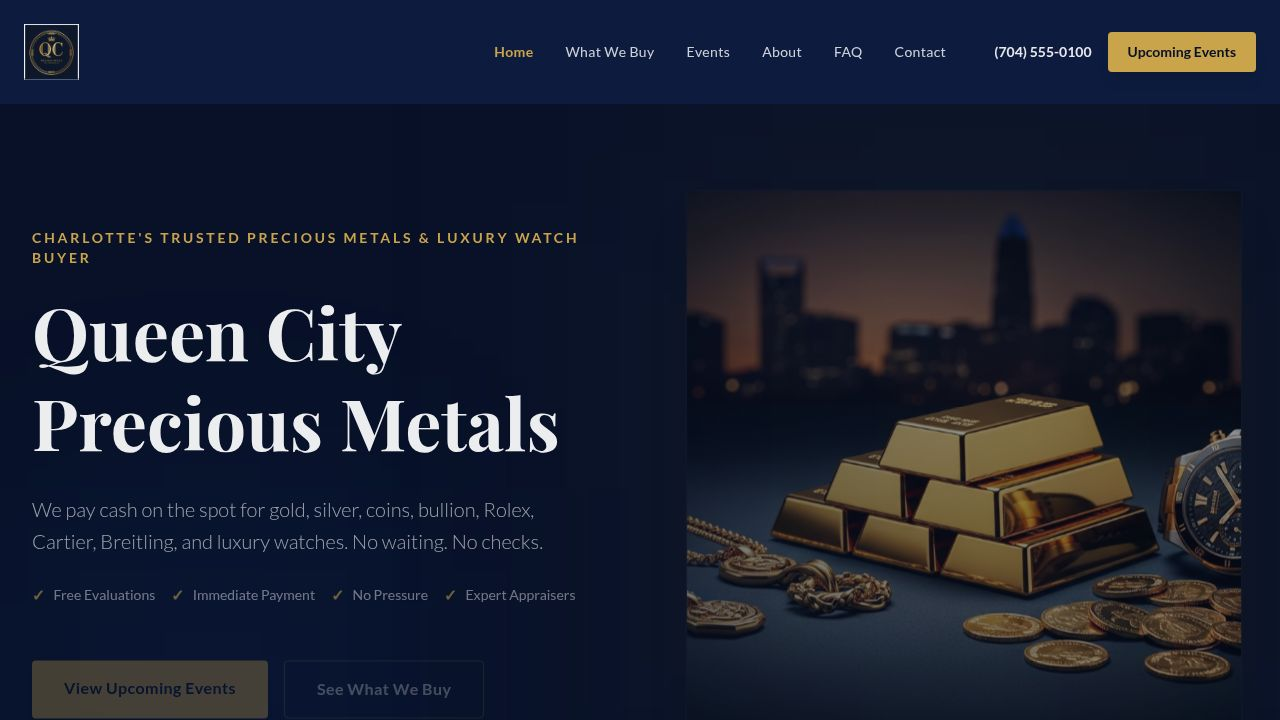
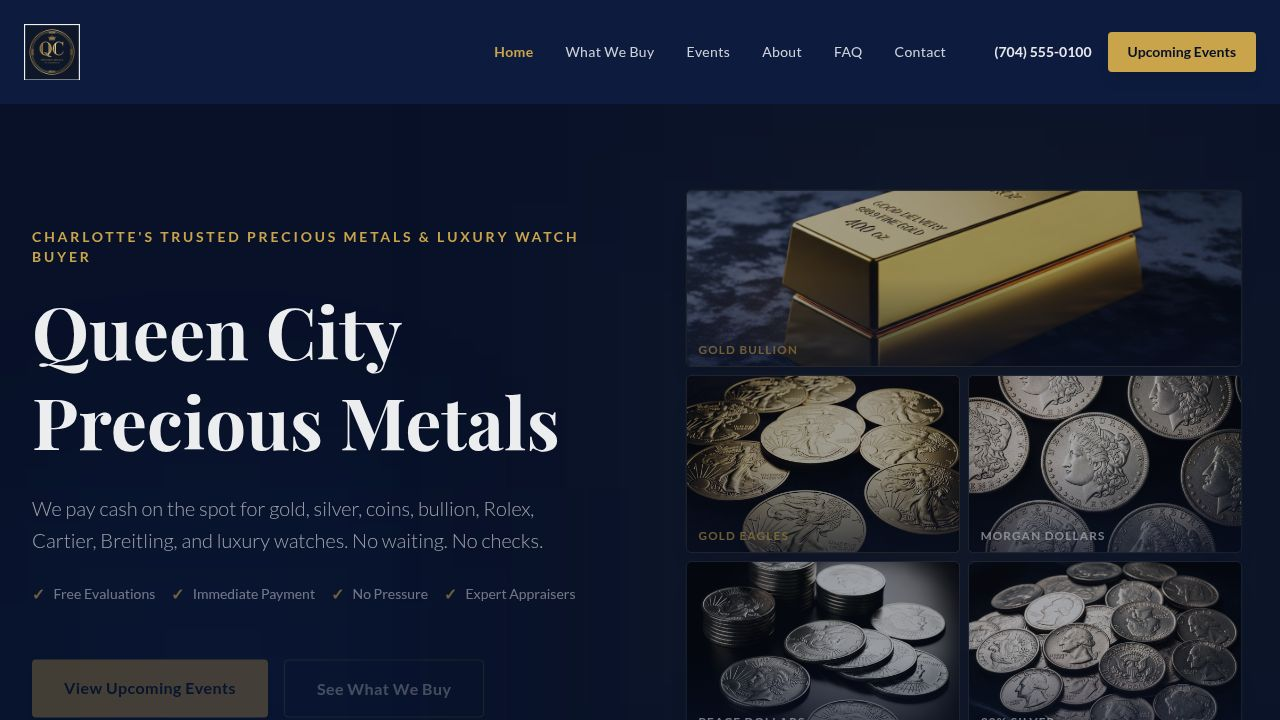
Hero image redesigned: single photo replaced with 5-image mosaic collage
Task #2 — Hero Image Collage Redesign

Changes made:
- Generated 5 new AI images saved to artifacts/qcpm-website/public/images/:
  - hero-gold-bars.png (4:3, two gleaming gold bars on dark velvet)
  - hero-american-eagles.png (1:1, American Gold Eagle coins spread on velvet)
  - hero-morgan-dollars.png (1:1, Morgan silver dollars dramatic lighting)
  - hero-peace-dollars.png (1:1, Peace dollar stacks and spread)
  - hero-junk-silver.png (1:1, 90% pre-1965 quarters/dimes/half-dollars)

- Updated HeroSection.tsx: added `rightSlot?: ReactNode` prop. When provided,
  it replaces the single imageSrc panel. The `imageSrc` path still works for
  all internal pages. `isInternal` now checks `hasRightPanel` correctly.

- Updated home.tsx: replaced `imageSrc="/images/hero.png"` with a `rightSlot`
  containing a responsive CSS grid mosaic:
  - Row 1: gold bars spanning both columns (full width)
  - Row 2: American Gold Eagles | Morgan Dollars (2 cols)
  - Row 3: Peace Dollars | 90% Junk Silver (2 cols)
  - Each cell: rounded corners, gold/white border, gradient overlay, subtle
    uppercase label (Gold Bullion, Gold Eagles, Morgan Dollars, Peace Dollars,
    90% Silver)

No deviations from the plan. Original hero.png preserved (not deleted).

diff --git a/artifacts/qcpm-website/src/pages/home.tsx b/artifacts/qcpm-website/src/pages/home.tsx
@@ -29,7 +29,60 @@ export default function HomePage() {
         primaryCta={{ label: "View Upcoming Events", href: "/events" }}
         secondaryCta={{ label: "See What We Buy", href: "/what-we-buy" }}
         badges={["Free Evaluations", "Immediate Payment", "No Pressure", "Expert Appraisers"]}
-        imageSrc="/images/hero.png"
+        rightSlot={
+          <div className="grid grid-cols-2 gap-2 h-[480px] lg:h-[560px]">
+            {/* Gold bars — spans both columns */}
+            <div className="col-span-2 relative rounded-lg overflow-hidden border border-gold/20 shadow-xl group">
+              <img
+                src="/images/hero-gold-bars.png"
+                alt="Gold bullion bars"
+                className="w-full h-full object-cover object-center transform group-hover:scale-105 transition-transform duration-1000 ease-out"
+              />
+              <div className="absolute inset-0 bg-gradient-to-t from-navy-dark/60 via-transparent to-transparent" />
+              <span className="absolute bottom-2 left-3 text-xs text-gold/80 font-semibold tracking-widest uppercase">Gold Bullion</span>
+            </div>
+            {/* American Gold Eagles */}
+            <div className="relative rounded-lg overflow-hidden border border-gold/20 shadow-xl group">
+              <img
+                src="/images/hero-american-eagles.png"
+                alt="American Gold Eagles"
+                className="w-full h-full object-cover object-center transform group-hover:scale-105 transition-transform duration-1000 ease-out"
+              />
+              <div className="absolute inset-0 bg-gradient-to-t from-navy-dark/60 via-transparent to-transparent" />
+              <span className="absolute bottom-2 left-3 text-xs text-gold/80 font-semibold tracking-widest uppercase">Gold Eagles</span>
+            </div>
+            {/* Morgan Dollars */}
+            <div className="relative rounded-lg overflow-hidden border border-white/10 shadow-xl group">
+              <img
+                src="/images/hero-morgan-dollars.png"
+                alt="Morgan Silver Dollars"
+                className="w-full h-full object-cover object-center transform group-hover:scale-105 transition-transform duration-1000 ease-out"
+              />
+              <div className="absolute inset-0 bg-gradient-to-t from-navy-dark/60 via-transparent to-transparent" />
+              <span className="absolute bottom-2 left-3 text-xs text-white/70 font-semibold tracking-widest uppercase">Morgan Dollars</span>
+            </div>
+            {/* Peace Dollars */}
+            <div className="relative rounded-lg overflow-hidden border border-white/10 shadow-xl group">
+              <img
+                src="/images/hero-peace-dollars.png"
+                alt="Peace Silver Dollars"
+                className="w-full h-full object-cover object-center transform group-hover:scale-105 transition-transform duration-1000 ease-out"
+              />
+              <div className="absolute inset-0 bg-gradient-to-t from-navy-dark/60 via-transparent to-transparent" />
+              <span className="absolute bottom-2 left-3 text-xs text-white/70 font-semibold tracking-widest uppercase">Peace Dollars</span>
+            </div>
+            {/* 90% Junk Silver */}
+            <div className="relative rounded-lg overflow-hidden border border-white/10 shadow-xl group">
+              <img
+                src="/images/hero-junk-silver.png"
+                alt="90% Junk Silver Coins"
+                className="w-full h-full object-cover object-center transform group-hover:scale-105 transition-transform duration-1000 ease-out"
+              />
+              <div className="absolute inset-0 bg-gradient-to-t from-navy-dark/60 via-transparent to-transparent" />
+              <span className="absolute bottom-2 left-3 text-xs text-white/70 font-semibold tracking-widest uppercase">90% Silver</span>
+            </div>
+          </div>
+        }
       />
 
       {/* Featured Brands Banner */}

diff --git a/artifacts/qcpm-website/src/components/sections/HeroSection.tsx b/artifacts/qcpm-website/src/components/sections/HeroSection.tsx
@@ -1,6 +1,7 @@
 import { Link } from "wouter";
 import { motion } from "framer-motion";
 import { GoldDivider } from "@/components/ui/GoldDivider";
+import { ReactNode } from "react";
 
 interface HeroSectionProps {
   eyebrow?: string;
@@ -12,6 +13,7 @@ interface HeroSectionProps {
   imageSrc?: string;
   imageAlt?: string;
   centered?: boolean;
+  rightSlot?: ReactNode;
 }
 
 export function HeroSection({
@@ -24,8 +26,10 @@ export function HeroSection({
   imageSrc,
   imageAlt = "Hero image",
   centered = false,
+  rightSlot,
 }: HeroSectionProps) {
-  const isInternal = centered && !imageSrc;
+  const hasRightPanel = !!(imageSrc || rightSlot);
+  const isInternal = centered && !hasRightPanel;
 
   const contentNode = (
     <div className={`flex flex-col ${centered ? "items-center text-center mx-auto max-w-4xl" : ""}`}>
@@ -117,21 +121,24 @@ export function HeroSection({
       <div className="absolute bottom-0 left-0 w-1/3 h-1/2 bg-blue-500/5 blur-[120px] pointer-events-none" />
 
       <div className="container mx-auto px-4 md:px-8 relative z-10">
-        {imageSrc ? (
+        {hasRightPanel ? (
           <div className="grid lg:grid-cols-2 gap-12 lg:gap-20 items-center">
             {contentNode}
             <motion.div
               initial={{ opacity: 0, scale: 0.95 }}
               animate={{ opacity: 1, scale: 1 }}
               transition={{ duration: 0.8, delay: 0.3 }}
-              className="relative rounded-lg overflow-hidden shadow-2xl border border-white/5 group"
             >
-              <div className="absolute inset-0 bg-gradient-to-tr from-navy-dark/40 to-transparent z-10" />
-              <img
-                src={imageSrc}
-                alt={imageAlt}
-                className="w-full h-[400px] lg:h-[560px] object-cover object-center transform group-hover:scale-105 transition-transform duration-1000 ease-out"
-              />
+              {rightSlot ?? (
+                <div className="relative rounded-lg overflow-hidden shadow-2xl border border-white/5 group">
+                  <div className="absolute inset-0 bg-gradient-to-tr from-navy-dark/40 to-transparent z-10" />
+                  <img
+                    src={imageSrc}
+                    alt={imageAlt}
+                    className="w-full h-[400px] lg:h-[560px] object-cover object-center transform group-hover:scale-105 transition-transform duration-1000 ease-out"
+                  />
+                </div>
+              )}
             </motion.div>
           </div>
         ) : (
